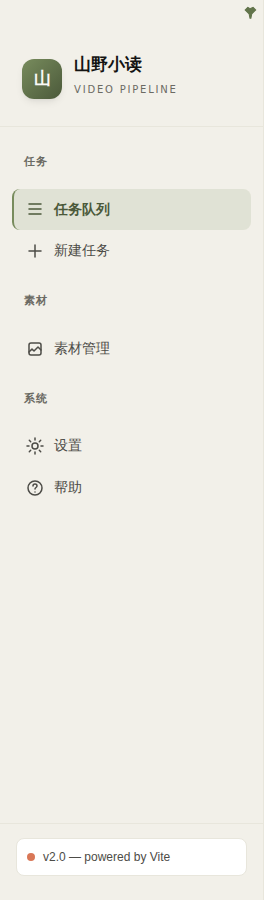
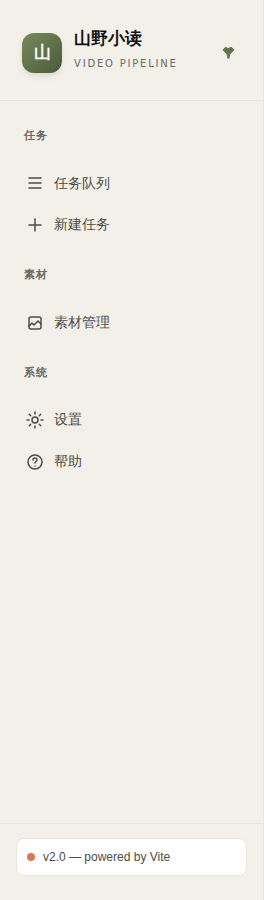
fix(mountain-web): remediate sidebar prototype audit findings

diff --git a/web-v2/src/components/layout/Sidebar.tsx b/web-v2/src/components/layout/Sidebar.tsx
@@ -32,6 +32,12 @@ export function Sidebar({ pinned, onTogglePin }: { pinned: boolean; onTogglePin:
     return () => clearInterval(t)
   }, [loadRunInfo])
 
+  useEffect(() => {
+    if (pinned) {
+      setPeek(false)
+    }
+  }, [pinned])
+
   const expand = () => {
     if (rail) {
       setPeek(true)
@@ -44,82 +50,114 @@ export function Sidebar({ pinned, onTogglePin }: { pinned: boolean; onTogglePin:
   }
 
   return (
-    <aside className={`sidebar${peek ? ' rail-peeking' : ''}`} data-pinned={pinned} onMouseLeave={collapse}>
-      <button
-        type="button"
-        className={`pin-btn${pinned ? ' on' : ''}`}
-        onClick={onTogglePin}
-        title={pinned ? '取消固定' : '固定侧栏'}
-      >
-        <svg width="16" height="16" viewBox="0 0 16 16" fill="none">
-          <path
-            d="M11.5 1.5L14.5 4.5L10 9L9 14L8 14L7 9L2.5 4.5L5.5 1.5L8 3L11.5 1.5Z"
-            stroke="currentColor"
-            strokeWidth="1.2"
-            fill={pinned ? 'currentColor' : 'none'}
-          />
-        </svg>
-      </button>
-
-      <div className="brand" onMouseEnter={expand}>
+    <aside
+      id="mountain-sidebar"
+      className={`sidebar${peek ? ' rail-peeking' : ''}`}
+      data-pinned={pinned}
+      aria-label="山野小读侧边栏"
+      onMouseLeave={collapse}
+    >
+      <div className="brand">
         <div className="brand-row">
-          <div className="brand-mark">山</div>
+          <button
+            type="button"
+            className="brand-mark"
+            onMouseEnter={expand}
+            onFocus={expand}
+            onClick={expand}
+            aria-label={rail ? '展开侧边栏' : '山野小读'}
+            aria-expanded={rail ? peek : undefined}
+            aria-controls="mountain-sidebar"
+            title={rail ? '悬停或聚焦展开侧边栏' : '山野小读'}
+          >
+            山
+          </button>
           <div>
             <p className="brand-name">山野小读</p>
             <p className="brand-sub">Video Pipeline</p>
           </div>
+          <button
+            type="button"
+            className={`pin-btn${pinned ? ' on' : ''}`}
+            onClick={() => {
+              setPeek(false)
+              onTogglePin()
+            }}
+            title={pinned ? '已钉住：侧边栏常驻展开。点击取消钉住，收起为图标栏' : '未钉住：侧边栏收起为图标栏，悬停临时展开。点击钉住，常驻展开不再隐藏'}
+            aria-pressed={pinned}
+            aria-label={pinned ? '取消钉住侧边栏' : '钉住侧边栏'}
+          >
+            <svg width="16" height="16" viewBox="0 0 16 16" fill="none" aria-hidden="true">
+              <path
+                d="M11.5 1.5L14.5 4.5L10 9L9 14L8 14L7 9L2.5 4.5L5.5 1.5L8 3L11.5 1.5Z"
+                stroke="currentColor"
+                strokeWidth="1.2"
+                fill={pinned ? 'currentColor' : 'none'}
+              />
+            </svg>
+          </button>
         </div>
-        <div className="rail-handle" title="悬停品牌区展开导航" />
+        <button
+          type="button"
+          className="rail-handle"
+          onMouseEnter={expand}
+          onFocus={expand}
+          onClick={expand}
+          aria-label="展开侧边栏"
+          aria-expanded={peek}
+          aria-controls="mountain-sidebar"
+          title="悬停或聚焦展开侧边栏"
+        />
       </div>
 
-      <nav className="nav">
+      <nav className="nav" aria-label="主导航">
         <p className="nav-group-label">任务</p>
-        <NavLink to="/" end>
+        <NavLink to="/" end title="任务队列" aria-label="任务队列">
           <span className="nav-ico">
             <svg width="18" height="18" viewBox="0 0 18 18" fill="none">
               <path d="M3 4h12M3 9h12M3 14h12" stroke="currentColor" strokeWidth="1.5" strokeLinecap="round" />
             </svg>
           </span>
-          <span>任务队列</span>
+          <span className="lbl">任务队列</span>
         </NavLink>
-        <NavLink to="/tasks/new">
+        <NavLink to="/tasks/new" title="新建任务" aria-label="新建任务">
           <span className="nav-ico">
             <svg width="18" height="18" viewBox="0 0 18 18" fill="none">
               <path d="M9 3v12M3 9h12" stroke="currentColor" strokeWidth="1.5" strokeLinecap="round" />
             </svg>
           </span>
-          <span>新建任务</span>
+          <span className="lbl">新建任务</span>
         </NavLink>
 
         <p className="nav-group-label">素材</p>
-        <NavLink to="/assets">
+        <NavLink to="/assets" title="素材管理" aria-label="素材管理">
           <span className="nav-ico">
             <svg width="18" height="18" viewBox="0 0 18 18" fill="none">
               <rect x="3" y="3" width="12" height="12" rx="2" stroke="currentColor" strokeWidth="1.5" />
               <path d="M3 12l3-3 2 2 4-4 3 3" stroke="currentColor" strokeWidth="1.5" strokeLinecap="round" strokeLinejoin="round" />
             </svg>
           </span>
-          <span>素材管理</span>
+          <span className="lbl">素材管理</span>
         </NavLink>
 
         <p className="nav-group-label">系统</p>
-        <NavLink to="/settings">
+        <NavLink to="/settings" title="设置" aria-label="设置">
           <span className="nav-ico">
             <svg width="18" height="18" viewBox="0 0 18 18" fill="none">
               <circle cx="9" cy="9" r="3" stroke="currentColor" strokeWidth="1.5" />
               <path d="M9 1v2M9 15v2M1 9h2M15 9h2M3.3 3.3l1.4 1.4M13.3 13.3l1.4 1.4M3.3 14.7l1.4-1.4M13.3 4.7l1.4-1.4" stroke="currentColor" strokeWidth="1.5" strokeLinecap="round" />
             </svg>
           </span>
-          <span>设置</span>
+          <span className="lbl">设置</span>
         </NavLink>
-        <NavLink to="/help">
+        <NavLink to="/help" title="帮助" aria-label="帮助">
           <span className="nav-ico">
             <svg width="18" height="18" viewBox="0 0 18 18" fill="none">
               <circle cx="9" cy="9" r="7" stroke="currentColor" strokeWidth="1.5" />
               <path d="M7 7a2 2 0 114 0c0 1.5-2 1.5-2 3M9 13h.01" stroke="currentColor" strokeWidth="1.5" strokeLinecap="round" />
             </svg>
           </span>
-          <span>帮助</span>
+          <span className="lbl">帮助</span>
         </NavLink>
       </nav>
 

diff --git a/web-v2/tests/sidebar-layout.test.tsx b/web-v2/tests/sidebar-layout.test.tsx
@@ -3,7 +3,7 @@
    ========================================================================== */
 
 import { describe, it, expect, vi, beforeEach, afterEach } from 'vitest'
-import { render, waitFor, cleanup } from '@testing-library/react'
+import { render, waitFor, cleanup, within } from '@testing-library/react'
 import userEvent from '@testing-library/user-event'
 import { MemoryRouter, Route, Routes } from 'react-router-dom'
 import { AppShell } from '../src/components/layout/AppShell'
@@ -72,7 +72,7 @@ describe('Sidebar prototype interaction', () => {
     expect(shell).not.toHaveClass('is-rail')
   })
 
-  it('expands only when hovering the brand area in rail mode', async () => {
+  it('exposes accessible pin and rail controls and expands only from the two rail triggers', async () => {
     localStorage.setItem(PIN_KEY, '0')
     vi.mocked(fetchTasks).mockResolvedValue(RUNNING_TASK)
 
@@ -84,10 +84,38 @@ describe('Sidebar prototype interaction', () => {
     await waitFor(() => expect(vi.mocked(fetchTasks)).toHaveBeenCalled())
     expect(sidebar).not.toHaveClass('rail-peeking')
 
+    const pin = within(sidebar).getByRole('button', { name: '钉住侧边栏' })
+    expect(pin).toHaveAttribute('aria-pressed', 'false')
+    expect(within(sidebar).getByRole('navigation', { name: '主导航' })).toBeInTheDocument()
+    expect(within(sidebar).getByRole('link', { name: '任务队列' })).toHaveAttribute('title', '任务队列')
+
     await user.hover(brand)
+    expect(sidebar).not.toHaveClass('rail-peeking')
+
+    const triggers = within(sidebar).getAllByRole('button', { name: '展开侧边栏' })
+    expect(triggers).toHaveLength(2)
+
+    await user.hover(triggers[0])
     await waitFor(() => expect(sidebar).toHaveClass('rail-peeking'))
 
-    await user.unhover(brand)
+    await user.unhover(triggers[0])
+    await waitFor(() => expect(sidebar).not.toHaveClass('rail-peeking'))
+
+    await user.hover(triggers[1])
+    await waitFor(() => expect(sidebar).toHaveClass('rail-peeking'))
+
+    const pinWhilePeeking = within(sidebar).getByRole('button', { name: '钉住侧边栏' })
+    await user.click(pinWhilePeeking)
+    await waitFor(() => expect(container.querySelector('.app-shell')).toHaveClass('is-pinned'))
+    expect(sidebar).not.toHaveClass('rail-peeking')
+
+    await user.click(within(sidebar).getByRole('button', { name: '取消钉住侧边栏' }))
+    await waitFor(() => expect(container.querySelector('.app-shell')).toHaveClass('is-rail'))
+    expect(sidebar).not.toHaveClass('rail-peeking')
+
+    await user.hover(triggers[0])
+    await waitFor(() => expect(sidebar).toHaveClass('rail-peeking'))
+    await user.unhover(sidebar)
     await waitFor(() => expect(sidebar).not.toHaveClass('rail-peeking'))
   })
 

diff --git a/web-v2/src/styles/app.css b/web-v2/src/styles/app.css
@@ -32,6 +32,7 @@ a { color: var(--nt-primary-700); }
   width: 40px; height: 40px; border-radius: var(--nt-radius-lg); flex: none;
   background: linear-gradient(135deg, var(--nt-primary-500), var(--nt-primary-700));
   color: var(--nt-neutral-50);
+  border: 0; padding: 0; cursor: pointer;
   font-family: var(--nt-font-display); font-weight: 700; font-size: 17px;
   display: flex; align-items: center; justify-content: center;
   box-shadow: var(--nt-shadow-md);
@@ -277,10 +278,6 @@ a { color: var(--nt-primary-700); }
 .app-shell.is-rail .sidebar:not(.rail-peeking) .brand-row {
   justify-content: center; gap: 0;
 }
-.app-shell.is-rail .sidebar:not(.rail-peeking) .brand {
-  cursor: pointer;
-}
-
 .app-shell.is-rail .pin-btn { display: none; }
 .app-shell.is-rail .sidebar.rail-peeking .pin-btn { display: inline-flex; }
 
@@ -293,12 +290,16 @@ a { color: var(--nt-primary-700); }
 }
 .pin-btn:hover { color: var(--nt-primary-700); background: rgba(120,140,93,.12); }
 .pin-btn.on { color: var(--nt-primary-600); }
+.brand-mark:focus-visible, .pin-btn:focus-visible, .rail-handle:focus-visible,
+.nav a:focus-visible, .runbar:focus-visible {
+  outline: 2px solid var(--nt-accent-400); outline-offset: 2px;
+}
 
 .rail-handle {
   position: relative;
   height: 16px; margin: 6px 14px; flex: none;
   display: flex; align-items: center; justify-content: center;
-  cursor: pointer;
+  width: calc(100% - 28px); padding: 0; border: 0; background: transparent; cursor: pointer;
 }
 .rail-handle::before {
   content: ""; width: 22px; height: 2px; border-radius: 2px;
